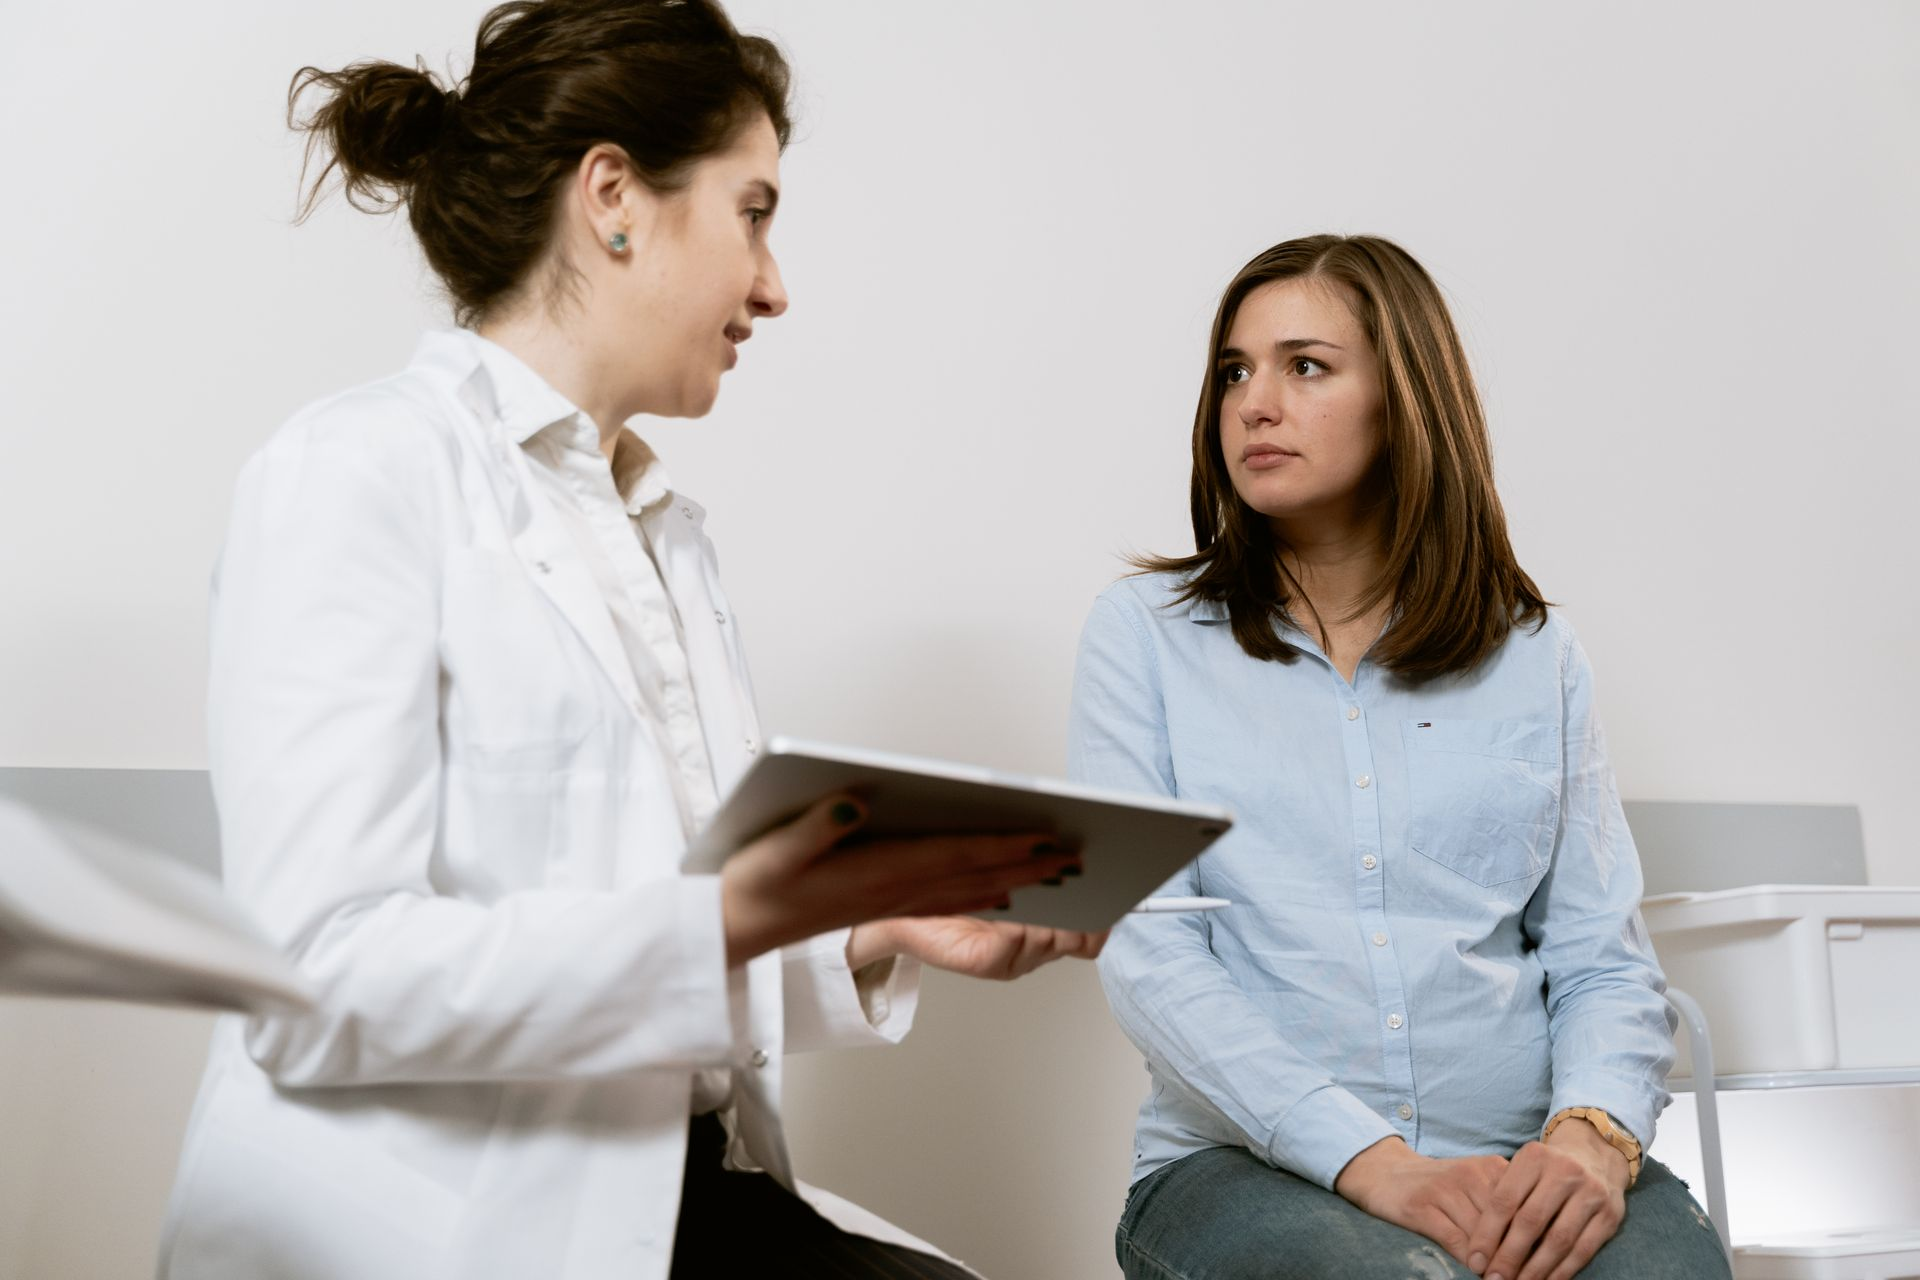
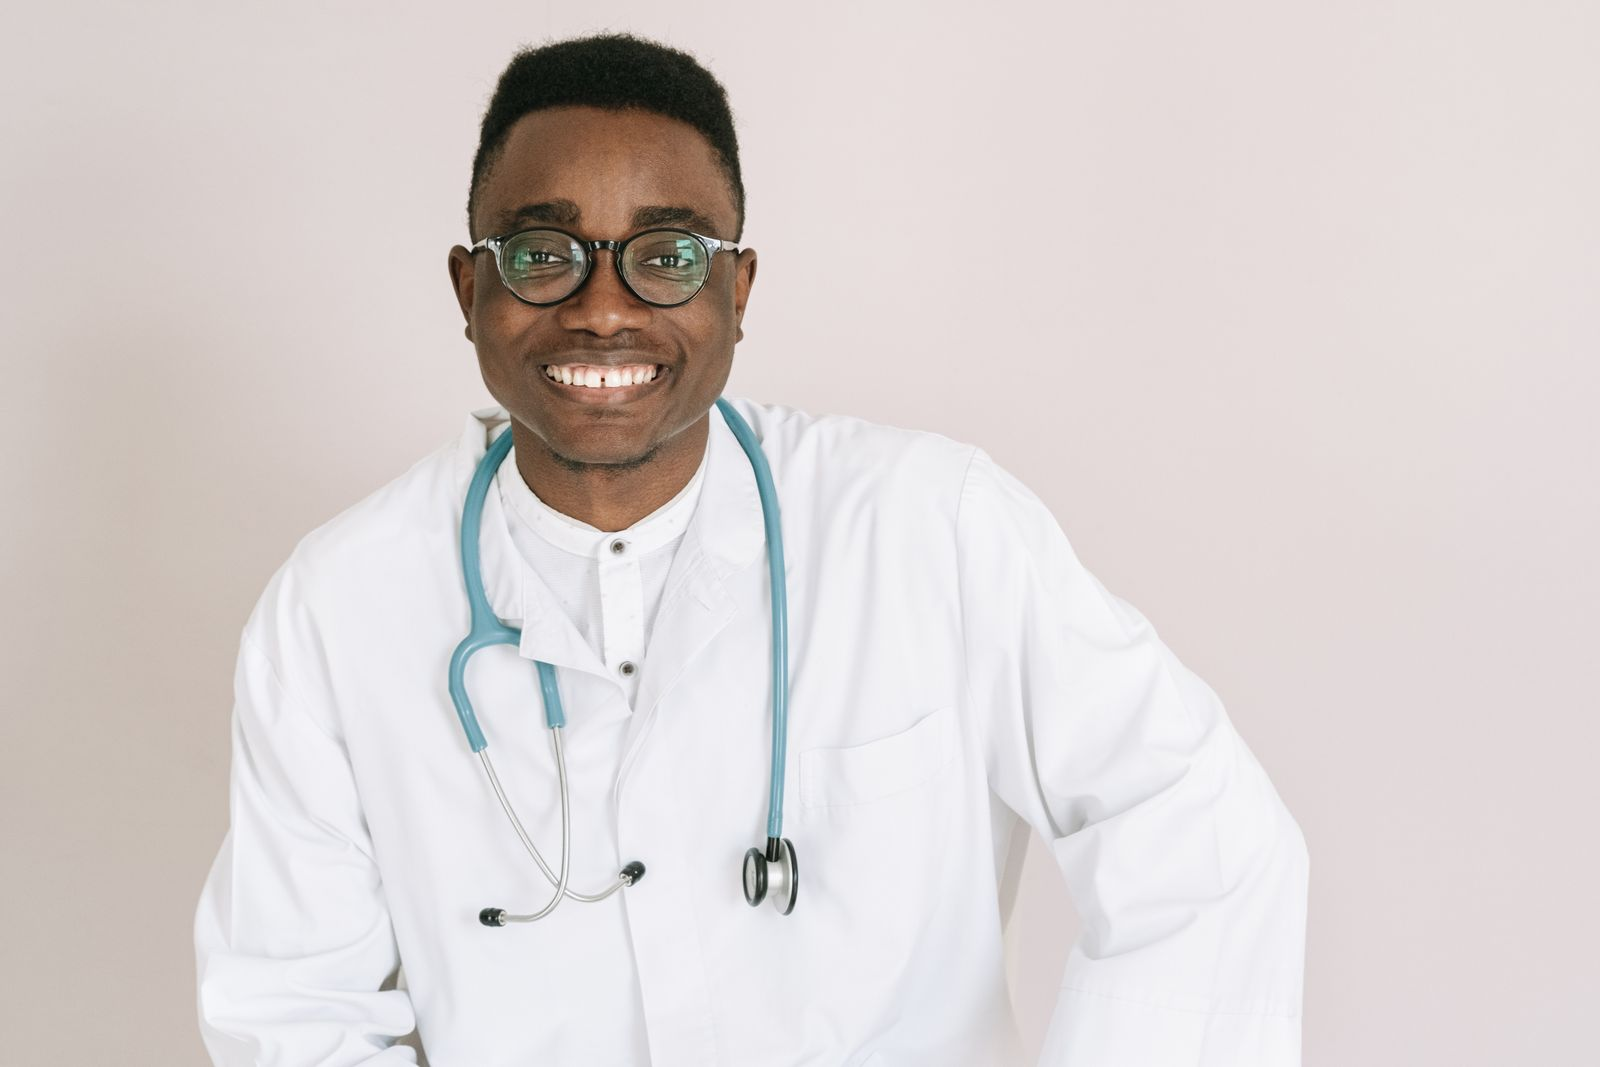
refine page heroes and use male doctor imagery
Hero titles are left-aligned with a left navy fade scrim replacing the
center-ellipse overlay, so text stays readable while the photo remains
visible at the right. Breadcrumb trails (Home/...) are removed from all
page heroes for a cleaner look, and the Neuro Consultation imagery now
shows a male doctor.

🤖 Generated with Codebuff

diff --git a/public/front_assets/css/theme.css b/public/front_assets/css/theme.css
@@ -1844,7 +1844,7 @@ html.nav-prescroll .p2gh-navbar.transparent .nav-toggle span { background: var(-
   position: relative;
   background: var(--ink);
   padding: calc(var(--nav-h) + clamp(56px, 9vw, 110px)) 0 clamp(44px, 6vw, 76px);
-  text-align: center;
+  text-align: left;
   overflow: hidden;
 }
 
@@ -1859,15 +1859,7 @@ html.nav-prescroll .p2gh-navbar.transparent .nav-toggle span { background: var(-
 }
 
 .page-hero::after {
-  content: '';
-  position: absolute;
-  right: -90px;
-  top: -90px;
-  width: 320px;
-  height: 320px;
-  border: 1px solid rgba(255, 255, 255, 0.08);
-  border-radius: 50%;
-  pointer-events: none;
+  content: none;
 }
 
 .page-hero .container-p2gh { position: relative; z-index: 1; }
@@ -1883,7 +1875,7 @@ html.nav-prescroll .p2gh-navbar.transparent .nav-toggle span { background: var(-
 .page-hero .breadcrumb-nav {
   display: flex;
   align-items: center;
-  justify-content: center;
+  justify-content: flex-start;
   flex-wrap: wrap;
   gap: 10px;
   font-family: var(--font-ui);
@@ -1898,8 +1890,9 @@ html.nav-prescroll .p2gh-navbar.transparent .nav-toggle span { background: var(-
 .page-hero .breadcrumb-nav .sep { color: rgba(255, 255, 255, 0.28); }
 
 /* --- Page-hero photo background --------------------------------
-   Photo fades in, then a navy scrim fades it out ONLY behind the
-   centered text zone — the photo stays visible at the edges.     */
+   Photo fades in, then a left-side navy scrim fades it out so the
+   left-aligned title always reads clearly; photo stays visible at
+   the right edge.                                              */
 .page-hero-bg {
   position: absolute;
   inset: 0;
@@ -1919,25 +1912,25 @@ html.nav-prescroll .p2gh-navbar.transparent .nav-toggle span { background: var(-
   position: absolute;
   inset: 0;
   background:
-    radial-gradient(ellipse 84% 130% at 50% 48%,
-      rgba(8, 26, 48, 0.97) 0%,
-      rgba(8, 26, 48, 0.96) 52%,
-      rgba(8, 26, 48, 0.80) 76%,
-      rgba(8, 26, 48, 0.30) 93%,
-      rgba(8, 26, 48, 0) 100%),
-    linear-gradient(180deg, rgba(8, 26, 48, 0.55) 0%, rgba(8, 26, 48, 0.42) 50%, rgba(8, 26, 48, 0.62) 100%);
+    linear-gradient(90deg,
+      rgba(8, 26, 48, 0.92) 0%,
+      rgba(8, 26, 48, 0.78) 34%,
+      rgba(8, 26, 48, 0.42) 62%,
+      rgba(8, 26, 48, 0.12) 86%,
+      rgba(8, 26, 48, 0.05) 100%),
+    linear-gradient(180deg, rgba(8, 26, 48, 0.35) 0%, rgba(8, 26, 48, 0.18) 55%, rgba(8, 26, 48, 0.45) 100%);
   pointer-events: none;
 }
 
 @media (max-width: 640px) {
   .page-hero--img::after {
     background:
-      radial-gradient(ellipse 155% 95% at 50% 48%,
-        rgba(8, 26, 48, 0.97) 0%,
-        rgba(8, 26, 48, 0.95) 55%,
-        rgba(8, 26, 48, 0.60) 82%,
-        rgba(8, 26, 48, 0) 100%),
-      linear-gradient(180deg, rgba(8, 26, 48, 0.55) 0%, rgba(8, 26, 48, 0.45) 55%, rgba(8, 26, 48, 0.65) 100%);
+      linear-gradient(90deg,
+        rgba(8, 26, 48, 0.94) 0%,
+        rgba(8, 26, 48, 0.82) 45%,
+        rgba(8, 26, 48, 0.45) 78%,
+        rgba(8, 26, 48, 0.18) 100%),
+      linear-gradient(180deg, rgba(8, 26, 48, 0.35) 0%, rgba(8, 26, 48, 0.20) 55%, rgba(8, 26, 48, 0.45) 100%);
   }
 }
 
@@ -3022,7 +3015,7 @@ textarea.form-control-p2gh { resize: vertical; min-height: 110px; }
 .camps-hero-desc {
   color: rgba(255, 255, 255, 0.82);
   max-width: 620px;
-  margin: 18px auto 0;
+  margin: 18px 0 0;
   font-weight: 300;
   line-height: 1.85;
 }

diff --git a/resources/views/front/blog-detail.blade.php b/resources/views/front/blog-detail.blade.php
@@ -6,15 +6,7 @@
 <div class="page-hero page-hero--img">
     <div class="page-hero-bg" style="background-image: url('{{ $blog && $blog->image ? asset($blog->image) : asset('front_assets/images/page-hero-photo.jpg') }}');"></div>
     <div class="container-p2gh">
-        <div class="breadcrumb-title" data-aos="fade-down" style="font-size:1.6rem;">{{ Str::limit($blog->title ?? 'Blog Post', 60) }}</div>
-        <nav class="breadcrumb-nav" data-aos="fade-up">
-            <a href="{{ url('/') }}">Home</a>
-            <span class="sep">/</span>
-            <a href="{{ url('/blogs') }}">Blogs</a>
-            <span class="sep">/</span>
-            <span>Article</span>
-        </nav>
-    </div>
+        <div class="breadcrumb-title" data-aos="fade-down" style="font-size:1.6rem;">{{ Str::limit($blog->title ?? 'Blog Post', 60) }}</div></div>
 </div>
 
 <section class="p2gh-section">

diff --git a/resources/views/front/camps.blade.php b/resources/views/front/camps.blade.php
@@ -8,13 +8,7 @@
 <section class="page-hero page-hero--img camps-hero">
     <div class="page-hero-bg" style="background-image: url('{{ asset('front_assets/images/camps-photo.jpg') }}');"></div>
     <div class="container-p2gh">
-        <div class="breadcrumb-title">Health Camps</div>
-        <nav class="breadcrumb-nav">
-            <a href="{{ url('/') }}">Home</a>
-            <span class="sep">/</span>
-            <span>Camps</span>
-        </nav>
-        <p class="camps-hero-desc">Free check-ups, expert consultations and awareness drives organised by
+        <div class="breadcrumb-title">Health Camps</div><p class="camps-hero-desc">Free check-ups, expert consultations and awareness drives organised by
             {{ settings('company_name') ?? 'Navodayan Neuroclinic & Neurorehab' }} — on-site and at partner locations.</p>
     </div>
 </section>

diff --git a/resources/views/front/service-detail.blade.php b/resources/views/front/service-detail.blade.php
@@ -6,15 +6,7 @@
 <div class="page-hero page-hero--img">
     <div class="page-hero-bg" style="background-image: url('{{ $service && $service->image ? asset('storage/' . $service->image) : asset('front_assets/images/page-hero-photo.jpg') }}');"></div>
     <div class="container-p2gh">
-        <div class="breadcrumb-title" data-aos="fade-down">{{ $service->name ?? 'Service Detail' }}</div>
-        <nav class="breadcrumb-nav" data-aos="fade-up">
-            <a href="{{ url('/') }}">Home</a>
-            <span class="sep">/</span>
-            <a href="{{ url('/services') }}">Services</a>
-            <span class="sep">/</span>
-            <span>{{ $service->name ?? '' }}</span>
-        </nav>
-    </div>
+        <div class="breadcrumb-title" data-aos="fade-down">{{ $service->name ?? 'Service Detail' }}</div></div>
 </div>
 
 <section class="p2gh-section">

diff --git a/resources/views/front/about.blade.php b/resources/views/front/about.blade.php
@@ -6,13 +6,7 @@
 <div class="page-hero page-hero--img">
     <div class="page-hero-bg" style="background-image: url('{{ asset('front_assets/images/page-hero-photo.jpg') }}');"></div>
     <div class="container-p2gh">
-        <div class="breadcrumb-title" data-aos="fade-down">About Us</div>
-        <nav class="breadcrumb-nav" data-aos="fade-up">
-            <a href="{{ url('/') }}">Home</a>
-            <span class="sep">/</span>
-            <span>About Us</span>
-        </nav>
-    </div>
+        <div class="breadcrumb-title" data-aos="fade-down">About Us</div></div>
 </div>
 
 {{-- ===== ABOUT + STATS (Editorial navy panel) ===== --}}

diff --git a/resources/views/front/gallery.blade.php b/resources/views/front/gallery.blade.php
@@ -6,13 +6,7 @@
 <div class="page-hero page-hero--img">
     <div class="page-hero-bg" style="background-image: url('{{ asset('front_assets/images/page-hero-photo.jpg') }}');"></div>
     <div class="container-p2gh">
-        <div class="breadcrumb-title" data-aos="fade-down">Photo Gallery</div>
-        <nav class="breadcrumb-nav" data-aos="fade-up">
-            <a href="{{ url('/') }}">Home</a>
-            <span class="sep">/</span>
-            <span>Gallery</span>
-        </nav>
-    </div>
+        <div class="breadcrumb-title" data-aos="fade-down">Photo Gallery</div></div>
 </div>
 
 <section class="p2gh-section">

diff --git a/resources/views/front/services.blade.php b/resources/views/front/services.blade.php
@@ -6,13 +6,7 @@
 <div class="page-hero page-hero--img">
     <div class="page-hero-bg" style="background-image: url('{{ asset('front_assets/images/page-hero-photo.jpg') }}');"></div>
     <div class="container-p2gh">
-        <div class="breadcrumb-title" data-aos="fade-down">Our Services</div>
-        <nav class="breadcrumb-nav" data-aos="fade-up">
-            <a href="{{ url('/') }}">Home</a>
-            <span class="sep">/</span>
-            <span>Services</span>
-        </nav>
-    </div>
+        <div class="breadcrumb-title" data-aos="fade-down">Our Services</div></div>
 </div>
 
 <section class="p2gh-section">

diff --git a/resources/views/front/video.blade.php b/resources/views/front/video.blade.php
@@ -6,13 +6,7 @@
 <div class="page-hero page-hero--img">
     <div class="page-hero-bg" style="background-image: url('{{ asset('front_assets/images/page-hero-photo.jpg') }}');"></div>
     <div class="container-p2gh">
-        <div class="breadcrumb-title" data-aos="fade-down">Video Gallery</div>
-        <nav class="breadcrumb-nav" data-aos="fade-up">
-            <a href="{{ url('/') }}">Home</a>
-            <span class="sep">/</span>
-            <span>Video</span>
-        </nav>
-    </div>
+        <div class="breadcrumb-title" data-aos="fade-down">Video Gallery</div></div>
 </div>
 
 <section class="p2gh-section">

diff --git a/resources/views/front/contact.blade.php b/resources/views/front/contact.blade.php
@@ -6,13 +6,7 @@
 <div class="page-hero page-hero--img">
     <div class="page-hero-bg" style="background-image: url('{{ asset('front_assets/images/page-hero-photo.jpg') }}');"></div>
     <div class="container-p2gh">
-        <div class="breadcrumb-title" data-aos="fade-down">Contact Us</div>
-        <nav class="breadcrumb-nav" data-aos="fade-up">
-            <a href="{{ url('/') }}">Home</a>
-            <span class="sep">/</span>
-            <span>Contact Us</span>
-        </nav>
-    </div>
+        <div class="breadcrumb-title" data-aos="fade-down">Contact Us</div></div>
 </div>
 
 <section class="p2gh-section">

diff --git a/resources/views/front/blogs.blade.php b/resources/views/front/blogs.blade.php
@@ -6,13 +6,7 @@
 <div class="page-hero page-hero--img">
     <div class="page-hero-bg" style="background-image: url('{{ asset('front_assets/images/page-hero-photo.jpg') }}');"></div>
     <div class="container-p2gh">
-        <div class="breadcrumb-title" data-aos="fade-down">Health Blogs</div>
-        <nav class="breadcrumb-nav" data-aos="fade-up">
-            <a href="{{ url('/') }}">Home</a>
-            <span class="sep">/</span>
-            <span>Blogs</span>
-        </nav>
-    </div>
+        <div class="breadcrumb-title" data-aos="fade-down">Health Blogs</div></div>
 </div>
 
 <section class="p2gh-section">
